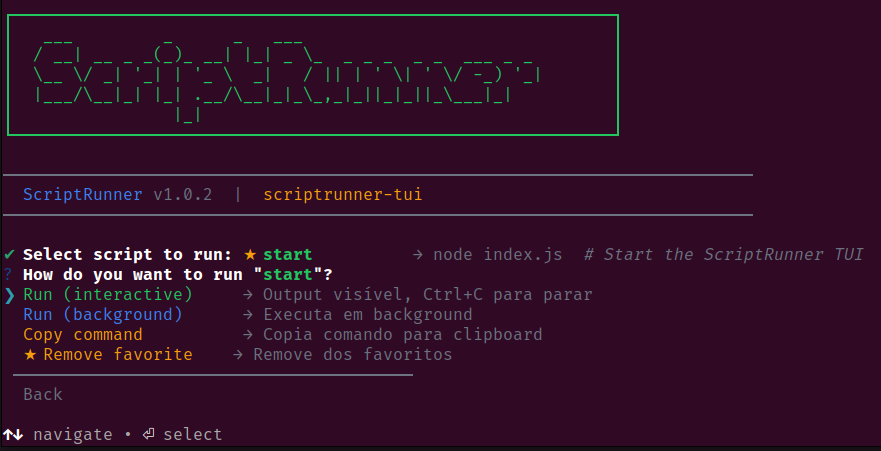
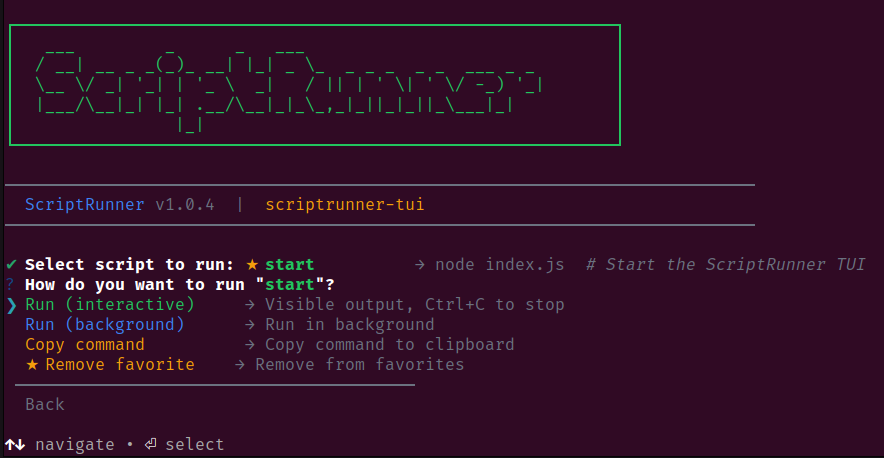
chore: update error messages and UI text to English

diff --git a/index.js b/index.js
@@ -80,7 +80,7 @@ async function main() {
     // Handle list option (non-interactive)
     if (options.list) {
       showHeader(rootPkg.projectName);
-      console.log('\nScripts disponíveis:\n');
+      console.log('\nAvailable scripts:\n');
       for (const [name, command] of Object.entries(rootPkg.scripts)) {
         const desc = rootPkg.scriptsDescriptions[name];
         const descText = desc ? `  # ${desc}` : '';
@@ -92,7 +92,7 @@ async function main() {
     // Handle direct script execution
     if (options.scriptName) {
       if (!rootPkg.scripts[options.scriptName]) {
-        showError(`Script "${options.scriptName}" não encontrado`);
+        showError(`Script "${options.scriptName}" not found`);
         process.exit(1);
       }
       await addToHistory({ script: options.scriptName, directory: options.directory, projectName: rootPkg.projectName });
@@ -149,9 +149,9 @@ async function handleScriptExecution(scriptName, directory, projectName, workspa
   if (execOption === 'favorite') {
     const nowFavorite = await toggleFavorite({ script: scriptName, directory, projectName });
     if (nowFavorite) {
-      showSuccess(`"${scriptName}" adicionado aos favoritos`);
+      showSuccess(`"${scriptName}" added to favorites`);
     } else {
-      showInfo(`"${scriptName}" removido dos favoritos`);
+      showInfo(`"${scriptName}" removed from favorites`);
     }
   } else if (execOption === 'interactive') {
     await addToHistory({ script: scriptName, directory, projectName });
@@ -164,9 +164,9 @@ async function handleScriptExecution(scriptName, directory, projectName, workspa
     const command = getScriptCommand(scriptName, directory);
     try {
       await copyToClipboard(command);
-      showSuccess(`Comando copiado: ${command}`);
+      showSuccess(`Command copied: ${command}`);
     } catch {
-      showError('Falha ao copiar para clipboard. Comando: ' + command);
+      showError('Failed to copy to clipboard. Command: ' + command);
     }
   }
 
@@ -185,7 +185,7 @@ async function runSingleProjectMode(rootPkg, directory) {
   const { scripts, scriptsDescriptions, projectName } = rootPkg;
 
   if (Object.keys(scripts).length === 0) {
-    showError('Nenhum script encontrado no package.json');
+    showError('No scripts found in package.json');
     process.exit(1);
   }
 
@@ -208,7 +208,7 @@ async function runSingleProjectMode(rootPkg, directory) {
 
     if (selected === 'exit') {
       if (backgroundProcesses.length > 0) {
-        showInfo(`${backgroundProcesses.length} processo(s) em background continuarão rodando.`);
+        showInfo(`${backgroundProcesses.length} background process(es) will keep running.`);
       }
       showSuccess('Até mais!');
       break;
@@ -254,7 +254,7 @@ async function runMonorepoMode(rootPkg, monorepoConfig, rootDirectory) {
 
     if (selectedWorkspace === 'exit') {
       if (backgroundProcesses.length > 0) {
-        showInfo(`${backgroundProcesses.length} processo(s) em background continuarão rodando.`);
+        showInfo(`${backgroundProcesses.length} background process(es) will keep running.`);
       }
       showSuccess('Até mais!');
       break;
@@ -295,7 +295,7 @@ async function runMonorepoMode(rootPkg, monorepoConfig, rootDirectory) {
     const { scripts, scriptsDescriptions, projectName } = currentProject;
 
     if (Object.keys(scripts).length === 0) {
-      showError('Nenhum script encontrado neste workspace');
+      showError('No scripts found in this workspace');
       continue;
     }
 
@@ -322,7 +322,7 @@ async function runMonorepoMode(rootPkg, monorepoConfig, rootDirectory) {
 
       if (selected === 'exit') {
         if (backgroundProcesses.length > 0) {
-          showInfo(`${backgroundProcesses.length} processo(s) em background continuarão rodando.`);
+          showInfo(`${backgroundProcesses.length} background process(es) will keep running.`);
         }
         showSuccess('Até mais!');
         break workspaceLoop;

diff --git a/src/ui.js b/src/ui.js
@@ -95,20 +95,20 @@ export async function showScriptMenu(scripts, descriptions = {}, backgroundProce
 
 export async function showExecutionOptions(scriptName, isFavorited = false) {
   const favoriteLabel = isFavorited
-    ? `${chalk.hex(COLORS.accent)('★ Remove favorite')}    ${chalk.hex(COLORS.muted)('→ Remove dos favoritos')}`
-    : `${chalk.hex(COLORS.accent)('☆ Add favorite')}       ${chalk.hex(COLORS.muted)('→ Adiciona aos favoritos')}`;
+    ? `${chalk.hex(COLORS.accent)('★ Remove favorite')}    ${chalk.hex(COLORS.muted)('→ Remove from favorites')}`
+    : `${chalk.hex(COLORS.accent)('☆ Add favorite')}       ${chalk.hex(COLORS.muted)('→ Add to favorites')}`;
 
   const choices = [
     {
-      name: `${chalk.hex(COLORS.primary)('Run (interactive)')}     ${chalk.hex(COLORS.muted)('→ Output visível, Ctrl+C para parar')}`,
+      name: `${chalk.hex(COLORS.primary)('Run (interactive)')}     ${chalk.hex(COLORS.muted)('→ Visible output, Ctrl+C to stop')}`,
       value: 'interactive',
     },
     {
-      name: `${chalk.hex(COLORS.secondary)('Run (background)')}      ${chalk.hex(COLORS.muted)('→ Executa em background')}`,
+      name: `${chalk.hex(COLORS.secondary)('Run (background)')}      ${chalk.hex(COLORS.muted)('→ Run in background')}`,
       value: 'background',
     },
     {
-      name: `${chalk.hex(COLORS.accent)('Copy command')}          ${chalk.hex(COLORS.muted)('→ Copia comando para clipboard')}`,
+      name: `${chalk.hex(COLORS.accent)('Copy command')}          ${chalk.hex(COLORS.muted)('→ Copy command to clipboard')}`,
       value: 'copy',
     },
     {
@@ -133,11 +133,11 @@ export async function showBackgroundProcessOptions(processInfo) {
 
   const choices = [
     {
-      name: `${chalk.hex(COLORS.secondary)('View logs')}           ${chalk.hex(COLORS.muted)(`→ ${logCount} linha(s) capturada(s)`)}`,
+      name: `${chalk.hex(COLORS.secondary)('View logs')}           ${chalk.hex(COLORS.muted)(`→ ${logCount} line(s) captured`)}`,
       value: 'logs',
     },
     {
-      name: `${chalk.hex(COLORS.danger)('Kill process')}         ${chalk.hex(COLORS.muted)('→ Encerra o processo')}`,
+      name: `${chalk.hex(COLORS.danger)('Kill process')}         ${chalk.hex(COLORS.muted)('→ Terminate the process')}`,
       value: 'kill',
     },
     new Separator(chalk.hex(COLORS.muted)('─'.repeat(40))),
@@ -168,11 +168,11 @@ export async function showLogs(processInfo, maxLines = 30) {
   );
 
   if (logs.length === 0) {
-    console.log(chalk.hex(COLORS.muted)('  (nenhum log capturado)'));
+    console.log(chalk.hex(COLORS.muted)('  (no logs captured)'));
   } else {
     const recentLogs = logs.slice(-maxLines);
     for (const log of recentLogs) {
-      const time = log.time.toLocaleTimeString('pt-BR');
+      const time = log.time.toLocaleTimeString('en-US', { hour12: false });
       const prefix = log.type === 'stderr'
         ? chalk.hex(COLORS.danger)('ERR')
         : chalk.hex(COLORS.muted)('OUT');
@@ -180,7 +180,7 @@ export async function showLogs(processInfo, maxLines = 30) {
     }
 
     if (logs.length > maxLines) {
-      console.log(chalk.hex(COLORS.muted)(`  ... ${logs.length - maxLines} linhas anteriores omitidas`));
+      console.log(chalk.hex(COLORS.muted)(`  ... ${logs.length - maxLines} previous lines omitted`));
     }
   }
 

diff --git a/src/parser.js b/src/parser.js
@@ -16,10 +16,10 @@ export async function parsePackageJson(directory) {
     };
   } catch (error) {
     if (error.code === 'ENOENT') {
-      throw new Error(`package.json não encontrado em: ${directory}`);
+      throw new Error(`package.json not found in: ${directory}`);
     }
     if (error instanceof SyntaxError) {
-      throw new Error('package.json contém JSON inválido');
+      throw new Error('package.json contains invalid JSON');
     }
     throw error;
   }
